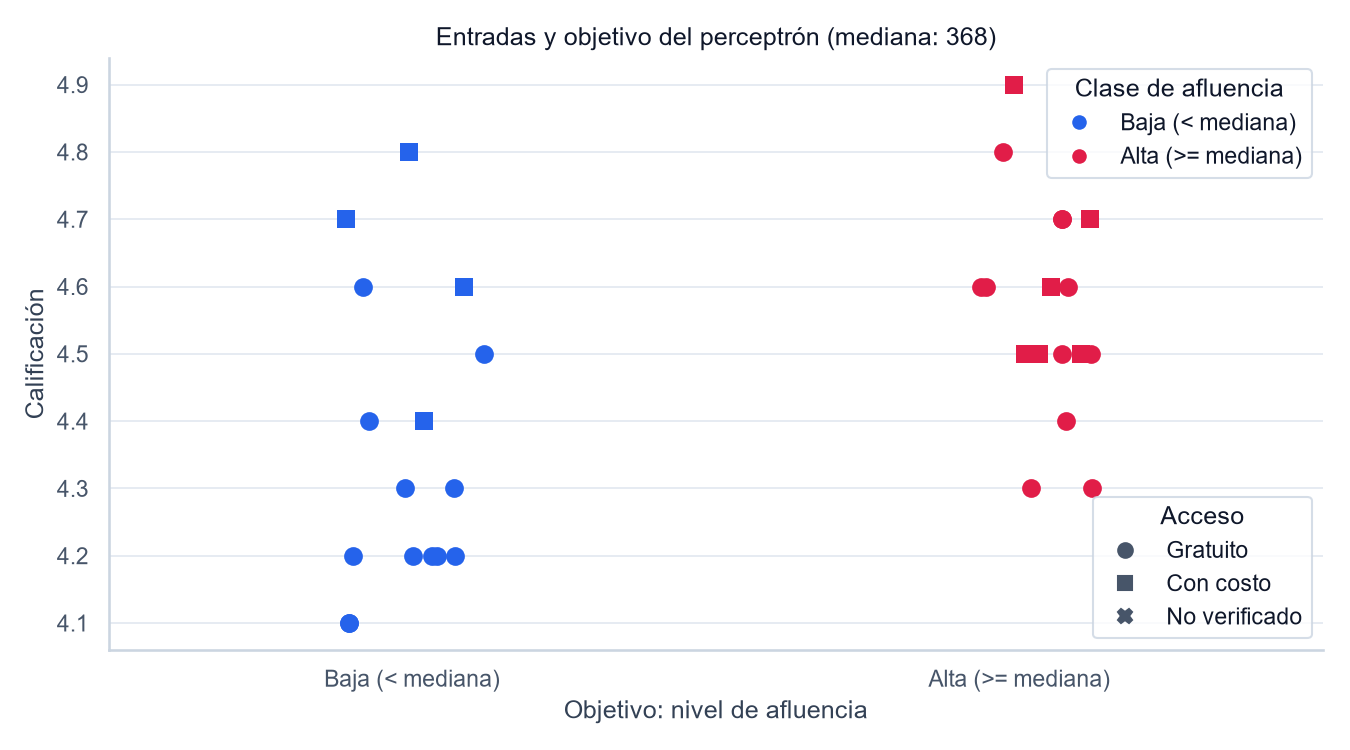
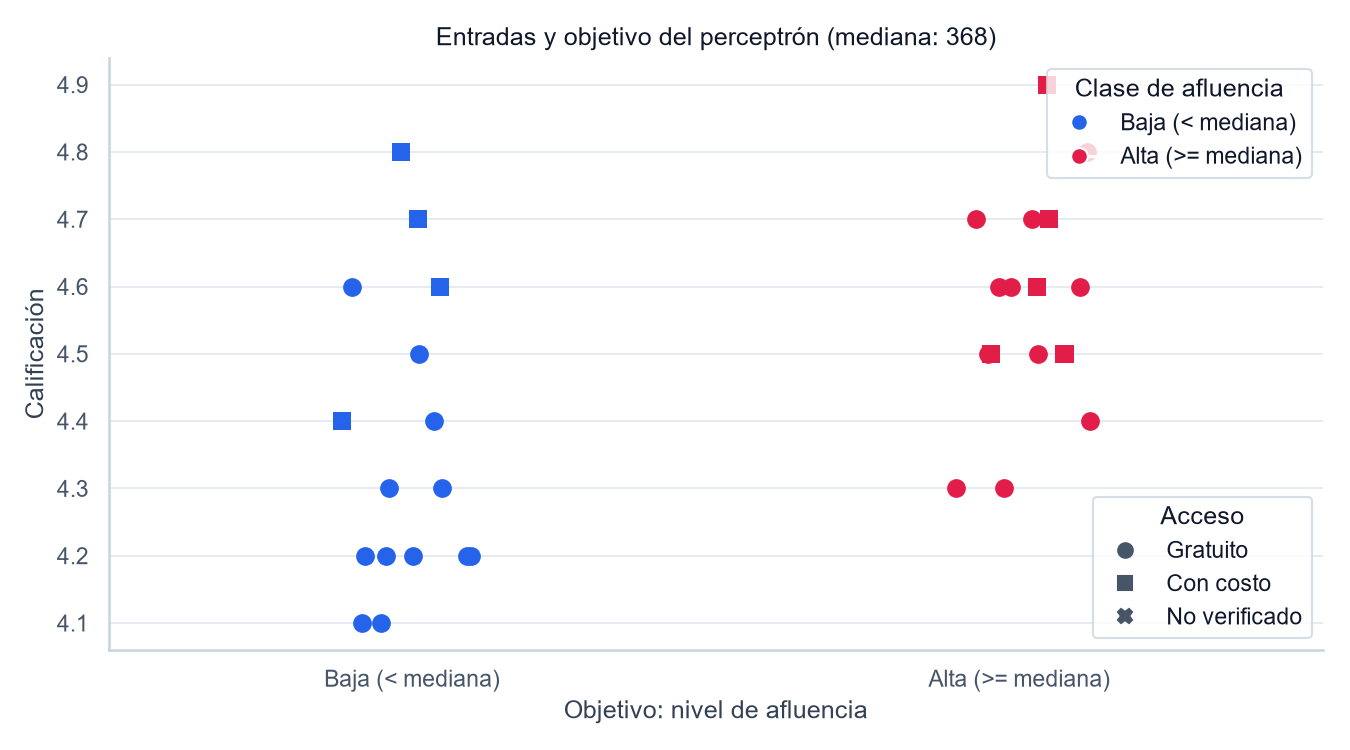
Improve tourism chart and data labels
Replace the crowded site chart with sorted horizontal bars and revise project wording to use estimated distribution terminology. Rename the allocation column consistently across the CSV and modeling scripts.

diff --git a/TurismoCartagoIA/src/eda_proyecto.py b/TurismoCartagoIA/src/eda_proyecto.py
@@ -4,6 +4,7 @@ import textwrap
 import numpy as np
 import matplotlib.pyplot as plt
 from matplotlib.patches import Patch
+from matplotlib.ticker import FuncFormatter
 
 def mostrar_resumen(datos):
     visitantes = np.array(
@@ -19,59 +20,110 @@ def mostrar_resumen(datos):
     print("📊 ANÁLISIS EXPLORATORIO DE DATOS (EDA) - TURISMOCARTAGO IA")
     print("=" * 60)
     print(f"Total de sitios turísticos registrados: {len(datos)}")
-    print(f"Sitios con afluencia documentada: {len(visitantes)}")
+    print(f"Sitios con visitantes registrados: {len(visitantes)}")
     if visitantes.size:
         print(f"Promedio de visitantes mensuales: {np.mean(visitantes):.2f}")
         print(f"Máximo de visitantes en un sitio: {np.max(visitantes):.0f}")
         print(f"Mínimo de visitantes en un sitio: {np.min(visitantes):.0f}")
         print(f"Desviación estándar de visitantes: {np.std(visitantes):.2f}")
     else:
-        print("No hay cifras de visitantes verificadas.")
+        print("No hay registros de visitantes.")
     if calificaciones.size:
         print(f"Calificación promedio general: {np.mean(calificaciones):.2f}")
     else:
-        print("No hay calificaciones verificadas.")
+        print("No hay calificaciones registradas.")
     print("=" * 60 + "\n")
 
 def generar_grafico(datos, output_dir="graficos"):
     datos_con_visitantes = [x for x in datos if x["visitantes_mes"] is not None]
     if not datos_con_visitantes:
-        print("No se genera el gráfico: no hay cifras de visitantes documentadas.\n")
+        print("No se genera el gráfico: no hay registros de visitantes.\n")
         return
-    nombres = [textwrap.fill(x["nombre"], width=18) for x in datos_con_visitantes]
-    visitantes = [x["visitantes_mes"] for x in datos_con_visitantes]
+    datos_ordenados = sorted(
+        datos_con_visitantes,
+        key=lambda sitio: sitio["visitantes_mes"],
+        reverse=True,
+    )
     colores_categoria = {
-        "Histórico": "#e74c3c",
-        "Cultural": "#e74c3c",
-        "Recreativo": "#2ecc71",
-        "Religioso": "#f1c40f",
-        "Gastronomía": "#3498db",
-        "Compras": "#3498db",
+        "Histórico": "#b23a48",
+        "Cultural": "#7251a3",
+        "Recreativo": "#27845b",
+        "Religioso": "#d49200",
+        "Gastronomía": "#2878a5",
+        "Compras": "#d65a31",
     }
-    colores = [colores_categoria.get(x["categoria"], "#64748b") for x in datos_con_visitantes]
-    bordes = ["#c0392b" if x["precio"] == 0 else "black" for x in datos_con_visitantes]
+    nombres = [
+        textwrap.fill(
+            f"{sitio['nombre']}{' [Gratis]' if sitio['precio'] == 0 else ''}",
+            width=45,
+        )
+        for sitio in datos_ordenados
+    ]
+    visitantes = [sitio["visitantes_mes"] for sitio in datos_ordenados]
+    colores = [
+        colores_categoria.get(sitio["categoria"], "#64748b")
+        for sitio in datos_ordenados
+    ]
 
     os.makedirs(output_dir, exist_ok=True)
 
-    figura, eje = plt.subplots(figsize=(11, 5))
-    barras = eje.bar(nombres, visitantes, color=colores, edgecolor=bordes, linewidth=2)
-    eje.set_title("Estimación hipotética por sitio — Cartago 2025", fontsize=12, fontweight="bold")
-    eje.set_xlabel("Sitios Turísticos", fontsize=13, fontweight="bold", labelpad=14)
-    eje.set_ylabel("Visitantes Mensuales", fontsize=10)
-    eje.tick_params(axis="x", rotation=0, labelsize=8, pad=8)
-    eje.bar_label(barras, labels=[f"{valor:,}" for valor in visitantes], padding=3, fontsize=9, fontweight="bold")
-    eje.set_ylim(0, max(visitantes) * 1.15)
-    eje.legend(handles=[
-        Patch(facecolor="#e74c3c", label="Histórico / Cultural"),
-        Patch(facecolor="#2ecc71", label="Recreativo / Natural"),
-        Patch(facecolor="#f1c40f", label="Religioso"),
-        Patch(facecolor="#3498db", label="Gastronómico / Compras"),
-        Patch(facecolor="white", edgecolor="#c0392b", linewidth=2, label="Lugar gratuito"),
-    ])
-    figura.tight_layout(pad=1.5)
-    figura.subplots_adjust(bottom=0.28)
+    figura, eje = plt.subplots(figsize=(12, max(10, len(datos_ordenados) * 0.38)))
+    posiciones = np.arange(len(datos_ordenados))
+    barras = eje.barh(posiciones, visitantes, color=colores, height=0.72)
+    eje.set_yticks(posiciones, labels=nombres, fontsize=8.5)
+    eje.invert_yaxis()
+    eje.set_title("Atractivos turísticos", loc="left", fontsize=10, pad=12)
+    eje.set_xlabel("Visitantes estimados al mes", fontweight="bold")
+    eje.xaxis.set_major_formatter(
+        FuncFormatter(lambda valor, _: f"{valor:,.0f}".replace(",", "."))
+    )
+    eje.bar_label(
+        barras,
+        labels=[f"{valor:,.0f}".replace(",", ".") for valor in visitantes],
+        padding=4,
+        fontsize=8,
+        fontweight="bold",
+    )
+    eje.set_xlim(0, max(visitantes) * 1.15)
+    eje.set_axisbelow(True)
+    eje.grid(axis="x", color="#dbe2ea", linestyle="--", alpha=0.75)
+    eje.spines[["top", "right", "left"]].set_visible(False)
+    figura.suptitle(
+        "Afluencia mensual estimada por atractivo — Cartago 2025",
+        fontsize=16,
+        fontweight="bold",
+        y=0.99,
+    )
+    categorias = [
+        "Histórico",
+        "Cultural",
+        "Recreativo",
+        "Religioso",
+        "Gastronomía",
+        "Compras",
+    ]
+    figura.legend(
+        handles=[
+            Patch(facecolor=colores_categoria[categoria], label=categoria)
+            for categoria in categorias
+        ],
+        title="Categoría",
+        loc="upper center",
+        bbox_to_anchor=(0.68, 0.96),
+        ncol=3,
+        frameon=False,
+        fontsize=9,
+    )
+    figura.text(
+        0.68,
+        0.875,
+        "[Gratis] indica precio de entrada igual a $0",
+        ha="center",
+        fontsize=9,
+    )
+    figura.subplots_adjust(left=0.37, right=0.97, top=0.82, bottom=0.04)
 
     ruta_imagen = os.path.join(output_dir, "visitantes_sitios.png")
-    figura.savefig(ruta_imagen)
-    print(f"📈 Gráfico generado exitosamente y guardado en: {ruta_imagen}\n")
+    figura.savefig(ruta_imagen, dpi=180, bbox_inches="tight")
+    print(f"Gráfico generado y guardado en: {ruta_imagen}\n")
     plt.close(figura)

diff --git a/TurismoCartagoIA/src/usar_modelo.py b/TurismoCartagoIA/src/usar_modelo.py
@@ -19,9 +19,9 @@ def predecir_escenarios() -> pd.DataFrame:
     modelo = artefacto["modelo"]
     escenarios = pd.DataFrame(
         [
-            {"caso": "Religioso, hipotético A", "categoria": "Religioso", "calificacion": 4.5, "es_gratuito": 1},
-            {"caso": "Cultural, hipotético B", "categoria": "Cultural", "calificacion": 4.2, "es_gratuito": 0},
-            {"caso": "Recreativo, hipotético C", "categoria": "Recreativo", "calificacion": 4.7, "es_gratuito": 1},
+            {"caso": "Escenario 1", "categoria": "Religioso", "calificacion": 4.5, "es_gratuito": 1},
+            {"caso": "Escenario 2", "categoria": "Cultural", "calificacion": 4.2, "es_gratuito": 0},
+            {"caso": "Escenario 3", "categoria": "Recreativo", "calificacion": 4.7, "es_gratuito": 1},
         ]
     )
     X_nuevos = escenarios[artefacto["columnas_entrada"]]
@@ -34,10 +34,7 @@ def predecir_escenarios() -> pd.DataFrame:
     ]
     escenarios["umbral_visitantes_usado"] = artefacto["umbral_visitantes"]
     print(f"Modelo cargado: {artefacto['nombre_modelo']}")
-    print(
-        "Los tres registros de demostración son escenarios hipotéticos; sus "
-        "calificaciones y precios no describen sitios reales."
-    )
+    print("Resultados de inferencia para tres perfiles de entrada de demostración:")
     print(escenarios.to_string(index=False))
     return escenarios
 

diff --git a/TurismoCartagoIA/src/perceptron_proyecto.py b/TurismoCartagoIA/src/perceptron_proyecto.py
@@ -204,7 +204,7 @@ def ejecutar(output_dir: Path = PROJECT_DIR / "graficos") -> PerceptronResult:
     perdida_inicial = result.loss_history[0]
     perdida_final = result.loss_history[-1]
     estimados = int(datos["datos_estimados"].eq(1).sum())
-    prorrateados = int(datos["participacion_hipotetica_pct"].notna().sum())
+    prorrateados = int(datos["participacion_estimada_pct"].notna().sum())
 
     curva = guardar_curva_aprendizaje(result.loss_history, output_dir)
     frontera = guardar_frontera_decision(X, y, result, output_dir)
@@ -226,8 +226,9 @@ def ejecutar(output_dir: Path = PROJECT_DIR / "graficos") -> PerceptronResult:
     print(
         "Limitación: la exactitud es de entrenamiento, no una validación "
         f"independiente. El conjunto incluye {estimados} registros con "
-        f"aproximaciones y {prorrateados} valores de visitantes prorrateados "
-        "hipotéticamente; no permite afirmar generalización."
+        f"estimaciones y {prorrateados} valores de visitantes distribuidos "
+        "proporcionalmente desde la referencia municipal; no permite afirmar "
+        "generalización."
     )
     return result
 

diff --git a/TurismoCartagoIA/src/modelo_proyecto.py b/TurismoCartagoIA/src/modelo_proyecto.py
@@ -91,15 +91,15 @@ def preparar_dataset() -> tuple[pd.DataFrame, pd.Series, float]:
             .sum()
         )
         prorrateados = (
-            int(entrenables["participacion_hipotetica_pct"].notna().sum())
-            if "participacion_hipotetica_pct" in entrenables
+            int(entrenables["participacion_estimada_pct"].notna().sum())
+            if "participacion_estimada_pct" in entrenables
             else 0
         )
         if estimados or prorrateados:
             print(
-                f"Advertencia: {estimados} registros contienen aproximaciones y "
-                f"{prorrateados} visitantes provienen de prorrateo hipotético; "
-                "las métricas son solo demostrativas."
+                f"Nota: {estimados} registros contienen estimaciones y "
+                f"{prorrateados} visitantes se calcularon mediante una "
+                "distribución proporcional; las métricas son demostrativas."
             )
     print(f"Objetivo: alta afluencia = visitantes_mes >= mediana ({umbral:.0f}).")
     return X, y, umbral

diff --git a/TurismoCartagoIA/src/preparacion_datos.py b/TurismoCartagoIA/src/preparacion_datos.py
@@ -56,7 +56,7 @@ def analizar_operaciones_pandas(datos):
         prorrateados = int(
             pd.to_numeric(
                 datos.get(
-                    "participacion_hipotetica_pct",
+                    "participacion_estimada_pct",
                     pd.Series(index=datos.index, dtype=float),
                 ),
                 errors="coerce",
@@ -66,9 +66,9 @@ def analizar_operaciones_pandas(datos):
         )
         if estimados or prorrateados:
             print(
-                f"\nAdvertencia: {estimados} registros contienen aproximaciones y "
-                f"los visitantes de {prorrateados} registros se distribuyeron "
-                "con pesos hipotéticos; los resúmenes son ilustrativos."
+                f"\nNota: {estimados} registros contienen estimaciones y "
+                f"los visitantes de {prorrateados} registros se calcularon "
+                "mediante una distribución proporcional."
             )
 
     columnas_clave = datos[["nombre", "categoria", "visitantes_mes", "calificacion"]]

diff --git a/TurismoCartagoIA/README.md b/TurismoCartagoIA/README.md
@@ -63,13 +63,13 @@ TurismoCartagoIA/
 
 El archivo `data/sitios_turisticos_cartago.csv` contiene 33 atractivos. Se incorporaron 23 atractivos del listado suministrado por la usuaria, asignados a las categorías existentes; los que ya estaban registrados se conservaron sin duplicarlos. El Aeropuerto de Santa Ana no se incluyó. Los visitantes por atractivo son estimaciones para el prototipo y todas las filas llevan `datos_estimados=1`; los datos de calificación, precio y horario de los 26 registros incorporados también son aproximados y no están verificados.
 
-El documento municipal de flujo turístico de Cartago para 2025 registra 196.568 visitantes en el año, pero no desglosa cifras por atractivo. Para construir una base comparable, el proyecto calcula un promedio mensual de 16.381 (196.568 / 12, redondeado) y lo distribuye entre los 33 sitios, conservando las proporciones relativas de las estimaciones previas y normalizándolas a 100 %. La columna `participacion_hipotetica_pct` deja visibles los pesos. El redondeo por mayor residuo mantiene la suma mensual en 16.381. La asignación es un supuesto de modelado, no una medición por sitio, y no representa visitantes únicos: una persona puede recorrer varios atractivos.
+El documento municipal de flujo turístico de Cartago para 2025 registra 196.568 visitantes en el año, pero no desglosa cifras por atractivo. Para construir una base comparable, el proyecto calcula un promedio mensual de 16.381 (196.568 / 12, redondeado) y lo distribuye entre los 33 sitios, conservando las proporciones relativas de las estimaciones previas y normalizándolas a 100 %. La columna `participacion_estimada_pct` deja visibles los pesos. El redondeo por mayor residuo mantiene la suma mensual en 16.381.
 
 Entre los registros se encuentra Restaurante Casa Vieja, de categoría Gastronomía, con horario de 12:00 m. a 9:00 p. m.
 
-### Base municipal y reparto hipotético
+### Base municipal y distribución por sitio
 
-El archivo `data/base_visitantes_municipal_2025.csv` conserva el total anual de referencia y el promedio mensual calculado. El documento proporcionado no contiene conteos mensuales exactos ni cifras por atractivo. El CSV de sitios distribuye el promedio mensual según los pesos hipotéticos; por tanto, el total coincide por diseño con la referencia mensual, no por una medición independiente de las visitas a cada sitio. Las estimaciones por sitio y los modelos derivados son demostrativos.
+El archivo `data/base_visitantes_municipal_2025.csv` conserva el total anual de referencia y el promedio mensual calculado. El CSV de sitios distribuye el promedio mensual según las participaciones registradas en `participacion_estimada_pct`; las cifras por atractivo se deben interpretar como estimaciones y los modelos derivados como demostrativos.
 
 ## Análisis y gráfica
 
@@ -79,7 +79,7 @@ La gráfica se guarda en:
 
 `graficos/visitantes_sitios.png`
 
-Las barras utilizan colores por categoría y muestran el número de visitantes encima de cada barra.
+La gráfica utiliza barras horizontales ordenadas de mayor a menor, colores por categoría y nombres completos. El número aparece al final de cada barra y las etiquetas `[Gratis]` identifican los sitios con precio de entrada igual a cero.
 
 ## Preparación de datos
 
@@ -104,13 +104,13 @@ Los archivos generados son:
 - `data/datos_turisticos_limpios.csv`
 - `data/sitios_turisticos_preparados_ml.csv`
 
-Las visualizaciones de Seaborn se guardan en `graficos/`: distribución de visitantes, promedio de visitantes por categoría, relación entre visitantes y calificación, y relación entre las entradas del perceptrón y su objetivo. La gráfica existente `graficos/visitantes_sitios.png` se conserva y la genera la aplicación normal.
+Las visualizaciones de Seaborn se guardan en `graficos/`: distribución de visitantes, promedio de visitantes por categoría, relación entre visitantes y calificación, y relación entre las entradas del perceptrón y su objetivo. La gráfica `graficos/visitantes_sitios.png` se genera con barras horizontales para facilitar la lectura de los 33 nombres.
 
-En los 33 registros, la distribución hipotética suma 16.381 visitantes mensuales, con un promedio de aproximadamente 496 por atractivo. Estos valores se usan únicamente para practicar el análisis; no describen aforos observados.
+En los 33 registros, la distribución estimada suma 16.381 visitantes mensuales, con un promedio de aproximadamente 496 por atractivo.
 
 La cantidad de sitios por categoría refleja la selección del prototipo, no la oferta total de Cartago. Los promedios y comparaciones por categoría son ilustrativos y no permiten conclusiones sobre la afluencia real.
 
-El resumen agrupado permite distinguir entre afluencia total y promedio. Los valores por categoría reflejan el prorrateo hipotético y el tamaño pequeño de la muestra; no describen aforos reales. La gráfica de dispersión de visitantes y calificación sirve para explorar los registros, pero no basta para concluir que una variable causa o predice la otra.
+El resumen agrupado permite distinguir entre afluencia total y promedio. Los valores por categoría reflejan la distribución del conjunto y el tamaño pequeño de la muestra. La gráfica de dispersión de visitantes y calificación sirve para explorar los registros, pero no basta para concluir que una variable causa o predice la otra.
 
 ## Avance 2
 
@@ -134,7 +134,7 @@ Las entradas son `calificacion` y `es_gratuito`, estandarizadas con la media y l
 
 No se recibieron observaciones específicas sobre la sustentación del Avance 1; por tanto, no se atribuyen cambios a comentarios inexistentes. Este avance documenta por separado el trabajo de preparación de datos, visualización y modelo solicitado en la guía.
 
-El CSV original tiene 33 filas y diez columnas. Los visitantes de los 33 registros son estimaciones distribuidas con pesos hipotéticos; las calificaciones, precios y horarios de los 26 atractivos incorporados también son aproximados. La tabla codificada incluye los 33 registros, por lo que sus métricas son únicamente demostrativas.
+El CSV original tiene 33 filas y diez columnas. Los visitantes de los 33 registros son estimaciones distribuidas con pesos relativos; las calificaciones, precios y horarios de los 26 atractivos incorporados también son aproximados. La tabla codificada incluye los 33 registros, por lo que sus métricas son demostrativas.
 
 | Etapa | Filas | Columnas | Nulos | Duplicados |
 |---|---:|---:|---:|---:|
@@ -142,14 +142,14 @@ El CSV original tiene 33 filas y diez columnas. Los visitantes de los 33 registr
 | CSV limpio, con `es_gratuito` | 33 | 11 | 7 | 0 |
 | CSV preparado, con categorías codificadas | 33 | 9 | 0 | 0 |
 
-El CSV preparado tiene nueve columnas: tres características numéricas y seis columnas binarias para las categorías. Las siete celdas vacías en las dos primeras etapas corresponden a sitios sin una fuente documentada para sus datos descriptivos; las participaciones hipotéticas están completas para los 33 atractivos.
+El CSV preparado tiene nueve columnas: tres características numéricas y seis columnas binarias para las categorías. Las siete celdas vacías en las dos primeras etapas corresponden a sitios sin una fuente documentada para sus datos descriptivos; las participaciones están completas para los 33 atractivos.
 
 La referencia municipal es agregada y no reporta afluencia por atractivo. La distribución por sitio es una aproximación reproducible a partir del promedio mensual y de los pesos publicados en el CSV; no debe citarse como medición individual. Las calificaciones, precios y horarios también requieren verificación independiente.
 
 ### Interpretación de los gráficos de Seaborn
 
-- **Distribución de visitantes:** muestra valores entre 123 y 1.712 visitantes mensuales por sitio. Son cifras sintéticas o hipotéticas, no conteos observados.
-- **Visitantes promedio por categoría:** los promedios reflejan el reparto supuesto del total municipal y no permiten comparar la afluencia real de las categorías.
+- **Distribución de visitantes:** muestra valores entre 123 y 1.712 visitantes mensuales por sitio.
+- **Visitantes promedio por categoría:** los promedios reflejan la distribución del total municipal y no permiten comparar la afluencia real de las categorías.
 - **Visitantes y calificación:** la relación se explora con valores de visitantes prorrateados y calificaciones preexistentes; no prueba causalidad ni capacidad predictiva.
 - **Entradas y objetivo:** `seaborn_entradas_objetivo.png` compara la calificación y el acceso gratuito entre las clases definidas por la mediana de visitantes. Los 33 registros estimados no permiten establecer una regla predictiva confiable.
 
@@ -170,13 +170,13 @@ En la ejecución actual, la pérdida baja de 0,693147 a 0,550726 y la exactitud 
 
 La frontera lineal no separa perfectamente los registros de entrenamiento.
 
-**Limitación:** las 33 observaciones contienen cifras hipotéticas distribuidas a partir de un total municipal agregado y no permiten conclusiones generalizables. La exactitud informada es de entrenamiento; se presenta solo para demostrar el algoritmo solicitado, no como rendimiento predictivo validado. Las calificaciones, precios y horarios requieren verificación independiente.
+**Limitación:** las 33 observaciones contienen cifras estimadas distribuidas a partir de un total municipal agregado y no permiten conclusiones generalizables. La exactitud informada es de entrenamiento; se presenta solo para demostrar el algoritmo solicitado, no como rendimiento predictivo validado. Las calificaciones, precios y horarios requieren verificación independiente.
 
 Los gráficos y archivos de datos se generan a partir de la fuente CSV; el script del perceptrón no cambia ese archivo.
 
 ## Resultados del modelo de clasificación
 
-La última ejecución seleccionó la regresión logística con F1 medio de validación cruzada de 0,843. En la prueba de siete filas obtuvo exactitud 0,857, precisión 0,800, recall 1,000 y F1 0,889. Son métricas demostrativas del conjunto sintético; no representan rendimiento turístico validado.
+La última ejecución seleccionó la regresión logística con F1 medio de validación cruzada de 0,843. En la prueba de siete filas obtuvo exactitud 0,857, precisión 0,800, recall 1,000 y F1 0,889. Son métricas demostrativas del conjunto de datos del proyecto; no representan rendimiento turístico validado.
 
 ## Ejecución local
 
@@ -290,7 +290,7 @@ python src/modelo_proyecto.py
 python src/usar_modelo.py
 ```
 
-El modelo queda en `models/modelo_turismo.joblib`; la tabla de métricas, en `data/comparacion_modelos.csv`; y la matriz de confusión, en `graficos/matriz_confusion_modelo.png`. Los casos de demostración y los 33 registros de visitantes estimados son hipotéticos; no representan cifras, calificaciones o precios confirmados por sitio. Las métricas describen el conjunto sintético y no rendimiento turístico validado en población.
+El modelo queda en `models/modelo_turismo.joblib`; la tabla de métricas, en `data/comparacion_modelos.csv`; y la matriz de confusión, en `graficos/matriz_confusion_modelo.png`. Los valores de visitantes por sitio son estimaciones; las calificaciones, precios y horarios requieren confirmación. Las métricas son demostrativas y no representan rendimiento turístico validado en población.
 
 ## Entregables del proyecto final
 
